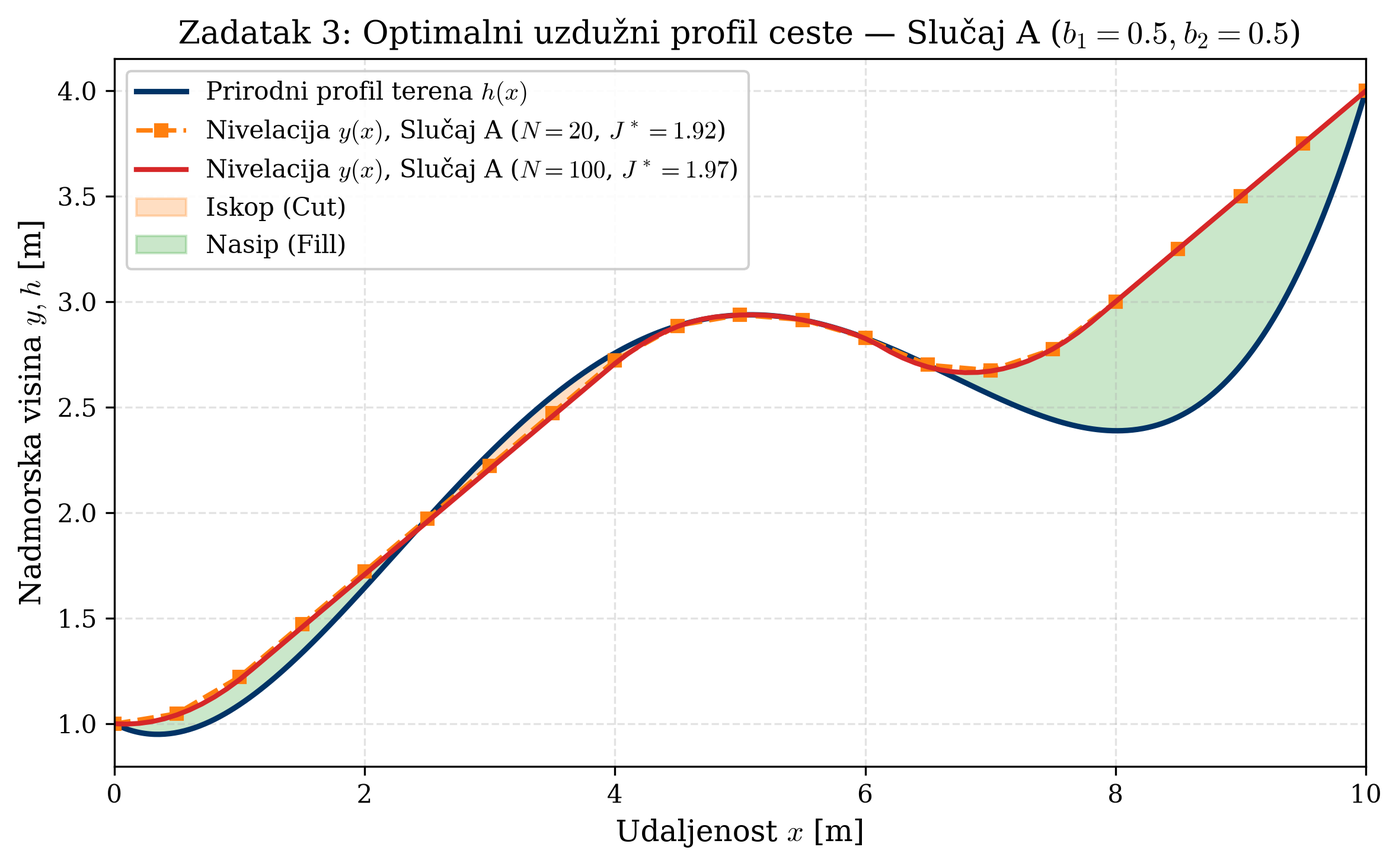
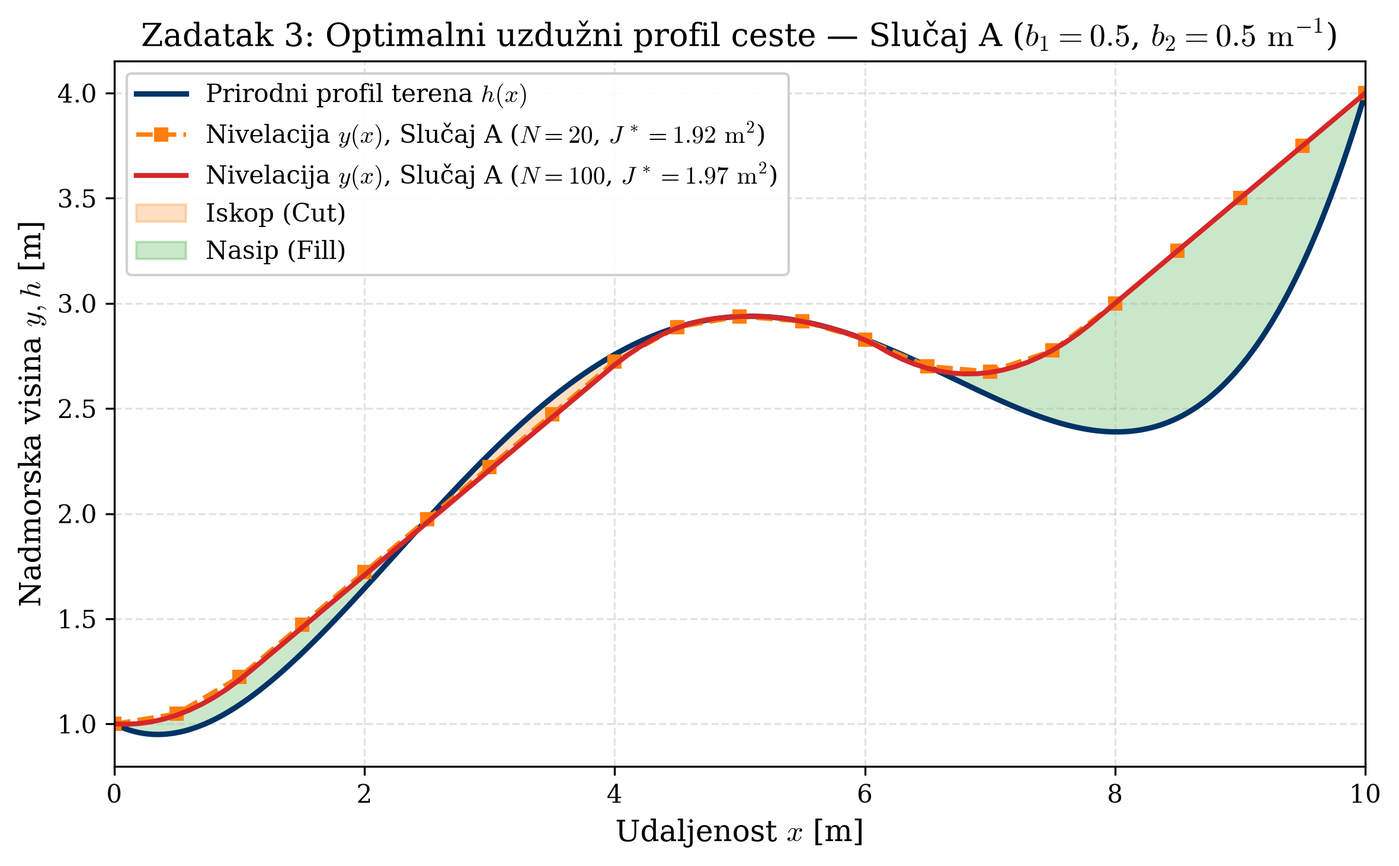
fix(task3): 🤖 [AI] update road leveling discrete objective, unit width explanation, terminology and units

diff --git a/docs/chapters/03-zadatak3-cesta-lp.tex b/docs/chapters/03-zadatak3-cesta-lp.tex
@@ -2,9 +2,9 @@
 
 \subsection{Kontinuirana varijacijska formulacija problema}
 
-U građevinarstvu i prometnom inženjerstvu projektiranje uzdužnog profila prometnice predstavlja temeljni optimizacijski zadatak. Cilj je odrediti visinsku trasu ceste $y(x)$ koja minimizira ukupne zemljane radove (volumen iskopa i nasipa), uz istovremeno strogo zadovoljavanje prometno-tehničkih standarda: maksimalnog uzdužnog nagiba (sposobnost savladavanja uspona vozila) i maksimalne zakrivljenosti trase (udobnost vožnje i ograničenje vertikalnih akceleracija)~\cite{jokic2024predavanja}.
+U građevinarstvu i prometnom inženjerstvu projektiranje uzdužnog profila prometnice predstavlja temeljni optimizacijski zadatak. Cilj je odrediti visinsku trasu ceste $y(x)$ koja minimizira ukupne zemljane radove (volumen iskopa i nasipa), uz istovremeno zadovoljavanje prometno-tehničkih standarda: maksimalnog uzdužnog nagiba i maksimalne zakrivljenosti trase (udobnost vožnje i ograničenje vertikalnih akceleracija)~\cite{jokic2024predavanja}.
 
-Neka je $L$ horizontalna duljina dionice ceste ($x \in [0, L]$), a $h(x)$ poznata prirodna visina terena. Problem se kontinuirano formulira kao varijacijski optimizacijski problem:
+Neka je $L$ horizontalna duljina dionice ceste ($x \in [0, L]$), a $h(x)$ poznata prirodna visina terena. Uz pretpostavku jedinične širine poprečnog presjeka ceste ($w = 1\text{ m}$), ukupni volumen zemljanih radova $[\text{m}^3]$ izravno odgovara površini uzdužnog presjeka $[\text{m}^2]$ između nivelete ceste $y(x)$ i prirodnog terena $h(x)$. Problem se kontinuirano formulira kao varijacijski optimizacijski problem:
 \begin{equation}
 \min_{y(x)} \quad J[y] = \int_0^L |y(x) - h(x)| \, dx
 \label{eq:road_continuous}
@@ -25,8 +25,8 @@ a = h(0) = 1 \text{ m}, \quad b = h(L) = 4 \text{ m}.
 \end{equation}
 Razmatraju se dva skupa parametara:
 \begin{itemize}
-    \item \textbf{Slučaj A}: $b_1 = 0.5$ (maksimalni nagib), $b_2 = 0.5 \text{ m}^{-1}$ (maksimalna zakrivljenost).
-    \item \textbf{Slučaj B}: $b_1 = 0.5$ (maksimalni nagib), $b_2 = 0.2 \text{ m}^{-1}$ (stroži uvjet udobnosti vožnje).
+    \item \textbf{Slučaj A}: $b_1 = 0.5$ (maksimalni nagib $[\text{m/m}]$), $b_2 = 0.5 \text{ m}^{-1}$ (maksimalna zakrivljenost).
+    \item \textbf{Slučaj B}: $b_1 = 0.5$ (maksimalni nagib $[\text{m/m}]$), $b_2 = 0.2 \text{ m}^{-1}$ (stroži uvjet zakrivljenosti / udobnosti vožnje).
 \end{itemize}
 
 \subsection{Diskretizacija konačnim razlikama}
@@ -46,7 +46,7 @@ Prema uputama zadatka, nagib ceste u čvorovima aproksimira se prvom unazadnom p
 y'(x_i) \approx \nabla y_i = \frac{y_i - y_{i-1}}{\Delta x}, \quad i = 1, \dots, N.
 \label{eq:diff_first}
 \end{equation}
-Brzina promjene nagiba (zakrivljenost) aproksimira se drugom podijeljenom razlikom:
+Brzina promjene nagiba (druga podijeljena razlika / aproksimacija vertikalne zakrivljenosti za male nagibe, $y''$) aproksimira se drugom podijeljenom razlikom:
 \begin{equation}
 y''(x_i) \approx \nabla^2 y_i = \frac{\nabla y_i - \nabla y_{i-1}}{\Delta x} = \frac{y_i - 2y_{i-1} + y_{i-2}}{\Delta x^2}, \quad i = 2, \dots, N.
 \label{eq:diff_second}
@@ -80,9 +80,12 @@ D_2 = \frac{1}{\Delta x^2} \begin{bmatrix}
 
 Diskretizirani integralni kriterij glasi:
 \begin{equation}
-J_{\mathrm{disc}}[y] = \Delta x \sum_{i=0}^N |y_i - h_i|.
+J_{\mathrm{disc}}[y] = \Delta x \sum_{i=0}^N |y_i - h_i|,
+\label{eq:road_disc_obj}
 \end{equation}
-Zbog prisutnosti nelinearnog operatora apsolutne vrijednosti ($|y_i - h_i|$), problem se ne može direktno rješavati linearnim metodama. Međutim, primjenom metode epigrafskih pomoćnih varijabli (engl. \textit{slack variables}) $z_i \geq |y_i - h_i|$, problem se egzaktno prevodi u standardni linearni program (LP)~\cite{boyd2004convex,nocedal2006numerical}.
+pri čemu $\Delta x$ predstavlja korak pravokutne numeričke integracije (Riemannova suma) površine uzdužnog presjeka.
+
+Zbog prisutnosti nelinearnog operatora apsolutne vrijednosti ($|y_i - h_i|$), problem se prevodi u linearni program primjenom metode epigrafskih pomoćnih varijabli $z_i \geq |y_i - h_i|$~\cite{boyd2004convex,nocedal2006numerical}.
 
 Za svaki čvor $i = 0, \dots, N$ nejednakost $z_i \geq |y_i - h_i|$ ekvivalentna je paru linearnih nejednakosti:
 \begin{align}
@@ -134,12 +137,12 @@ Donja granica za varijable je $z_i \geq 0$, dok su varijable $y_i$ slobodne ($-\
 
 \subsection{Numerički rezultati za četiri ispitna slučaja}
 
-Problem je riješen primjenom optimizacijskog algoritma dupleksnog simpleksa (\texttt{linprog} s opcijom \texttt{dual-simplex} i \texttt{highs}) za četiri zahtijevana scenarija:
+Problem je riješen primjenom optimizacijskog algoritma dualnog simpleksa (\texttt{linprog} s opcijom \texttt{dual-simplex} i \texttt{highs}) za četiri zahtijevana scenarija:
 \begin{enumerate}
-    \item \textbf{Slučaj A, $N=20$}: $b_1 = 0.5, b_2 = 0.5, \Delta x = 0.5 \text{ m}$ ($42$ varijable, $120$ nejednakosti).
-    \item \textbf{Slučaj A, $N=100$}: $b_1 = 0.5, b_2 = 0.5, \Delta x = 0.1 \text{ m}$ ($202$ varijable, $600$ nejednakosti).
-    \item \textbf{Slučaj B, $N=20$}: $b_1 = 0.5, b_2 = 0.2, \Delta x = 0.5 \text{ m}$ ($42$ varijable, $120$ nejednakosti).
-    \item \textbf{Slučaj B, $N=100$}: $b_1 = 0.5, b_2 = 0.2, \Delta x = 0.1 \text{ m}$ ($202$ varijable, $600$ nejednakosti).
+    \item \textbf{Slučaj A, $N=20$}: $b_1 = 0.5$, $b_2 = 0.5 \text{ m}^{-1}$, $\Delta x = 0.5 \text{ m}$ ($42$ varijable, $120$ nejednakosti).
+    \item \textbf{Slučaj A, $N=100$}: $b_1 = 0.5$, $b_2 = 0.5 \text{ m}^{-1}$, $\Delta x = 0.1 \text{ m}$ ($202$ varijable, $600$ nejednakosti).
+    \item \textbf{Slučaj B, $N=20$}: $b_1 = 0.5$, $b_2 = 0.2 \text{ m}^{-1}$, $\Delta x = 0.5 \text{ m}$ ($42$ varijable, $120$ nejednakosti).
+    \item \textbf{Slučaj B, $N=100$}: $b_1 = 0.5$, $b_2 = 0.2 \text{ m}^{-1}$, $\Delta x = 0.1 \text{ m}$ ($202$ varijable, $600$ nejednakosti).
 \end{enumerate}
 
 Sintetički prikaz optimalnih rezultata dan je u tablici~\ref{tab:road_results}.
@@ -176,14 +179,14 @@ B & 100 & 0.1 & 2.506047 & 0.2645 & 2.2416 & 0.2000 \\
 
 \subsection{Analiza utjecaja gustoće diskretizacije i parametara ograničenja}
 
-Usporedba grafova na slikama~\ref{fig:road_case_a} i~\ref{fig:road_case_b} te provjere derivacija na slikama~\ref{fig:road_slope} i~\ref{fig:road_curv} otkrivaju ključne fizikalne i numeričke zakonitosti:
+Usporedba grafova na slikama~\ref{fig:road_case_a} i~\ref{fig:road_case_b} te provjere derivacija na slikama~\ref{fig:road_slope} i~\ref{fig:road_curv} pokazuju sljedeće zakonitosti:
 
 \begin{enumerate}
     \item \textbf{Utjecaj gustoće diskretizacije ($N = 20$ vs $N = 100$)}:
-    Povećanjem broja diskretizacijskih točaka s $N=20$ na $N=100$, diskretni integral $J_{\mathrm{disc}}$ asimptotski konvergira prema točnom kontinuiranom integralu $\int_0^L |y(x)-h(x)|dx$. Za Slučaj A vrijednost raste s $1.9162$ na $1.9659 \text{ m}^2$ ($+2.59\%$), dok za Slučaj B raste s $2.4537$ na $2.5060 \text{ m}^2$ ($+2.13\%$). Fina mreža omogućuje vjernije praćenje lokalnih promjena bez numeričkog "peglanja" na gruboj skali.
+    Povećanjem broja diskretizacijskih točaka s $N=20$ na $N=100$, diskretni integral $J_{\mathrm{disc}}$ asimptotski konvergira prema kontinuiranom integralu $\int_0^L |y(x)-h(x)|dx$. Za Slučaj A vrijednost raste s $1.9162$ na $1.9659 \text{ m}^2$ ($+2.59\%$), dok za Slučaj B raste s $2.4537$ na $2.5060 \text{ m}^2$ ($+2.13\%$). Fina mreža omogućuje vjernije praćenje promjena profila bez numeričkog izglađivanja.
     
     \item \textbf{Utjecaj ograničenja zakrivljenosti ($b_2 = 0.5$ vs $b_2 = 0.2$)}:
-    Smanjenje dozvoljene zakrivljenosti s $b_2 = 0.5$ (Slučaj A) na $b_2 = 0.2$ (Slučaj B) zahtijeva znatno glađu trasu ceste kako bi se osigurala udobnost vožnje pri višim brzinama. Posljedično, cesta ne može pratiti prirodne pregibe terena, što povećava ukupni volumen zemljanih radova s $1.9659 \text{ m}^2$ na $2.5060 \text{ m}^2$ ($+27.47\%$).
+    Smanjenje dozvoljene zakrivljenosti s $b_2 = 0.5 \text{ m}^{-1}$ (Slučaj A) na $b_2 = 0.2 \text{ m}^{-1}$ (Slučaj B) zahtijeva znatno glađu trasu ceste. Posljedično, niveleta ne može pratiti prirodne pregibe terena, što povećava ukupni volumen zemljanih radova s $1.9659 \text{ m}^2$ na $2.5060 \text{ m}^2$ ($+27.47\%$).
 \end{enumerate}
 
 \begin{figure}[H]
@@ -200,4 +203,4 @@ Usporedba grafova na slikama~\ref{fig:road_case_a} i~\ref{fig:road_case_b} te pr
     \label{fig:road_curv}
 \end{figure}
 
-Kao što je vidljivo na slici~\ref{fig:road_curv}, zakrivljenost $y''(x)$ u Slučaju B doseže točno ekstremne vrijednosti $\pm 0.2 \text{ m}^{-1}$, potvrđujući da su ograničenja drugog reda aktivna duž značajnih segmenata trase.
+Na slici~\ref{fig:road_curv}, numerička aproksimacija druge derivacije $y''(x)$ u Slučaju B doseže točno ekstremne vrijednosti $\pm 0.2 \text{ m}^{-1}$, potvrđujući da su ograničenja drugog reda aktivna duž značajnih segmenata trase.

diff --git a/for_validator/03_LATEX_SOURCE/chapters/03-zadatak3-cesta-lp.tex b/for_validator/03_LATEX_SOURCE/chapters/03-zadatak3-cesta-lp.tex
@@ -2,9 +2,9 @@
 
 \subsection{Kontinuirana varijacijska formulacija problema}
 
-U građevinarstvu i prometnom inženjerstvu projektiranje uzdužnog profila prometnice predstavlja temeljni optimizacijski zadatak. Cilj je odrediti visinsku trasu ceste $y(x)$ koja minimizira ukupne zemljane radove (volumen iskopa i nasipa), uz istovremeno strogo zadovoljavanje prometno-tehničkih standarda: maksimalnog uzdužnog nagiba (sposobnost savladavanja uspona vozila) i maksimalne zakrivljenosti trase (udobnost vožnje i ograničenje vertikalnih akceleracija)~\cite{jokic2024predavanja}.
+U građevinarstvu i prometnom inženjerstvu projektiranje uzdužnog profila prometnice predstavlja temeljni optimizacijski zadatak. Cilj je odrediti visinsku trasu ceste $y(x)$ koja minimizira ukupne zemljane radove (volumen iskopa i nasipa), uz istovremeno zadovoljavanje prometno-tehničkih standarda: maksimalnog uzdužnog nagiba i maksimalne zakrivljenosti trase (udobnost vožnje i ograničenje vertikalnih akceleracija)~\cite{jokic2024predavanja}.
 
-Neka je $L$ horizontalna duljina dionice ceste ($x \in [0, L]$), a $h(x)$ poznata prirodna visina terena. Problem se kontinuirano formulira kao varijacijski optimizacijski problem:
+Neka je $L$ horizontalna duljina dionice ceste ($x \in [0, L]$), a $h(x)$ poznata prirodna visina terena. Uz pretpostavku jedinične širine poprečnog presjeka ceste ($w = 1\text{ m}$), ukupni volumen zemljanih radova $[\text{m}^3]$ izravno odgovara površini uzdužnog presjeka $[\text{m}^2]$ između nivelete ceste $y(x)$ i prirodnog terena $h(x)$. Problem se kontinuirano formulira kao varijacijski optimizacijski problem:
 \begin{equation}
 \min_{y(x)} \quad J[y] = \int_0^L |y(x) - h(x)| \, dx
 \label{eq:road_continuous}
@@ -25,8 +25,8 @@ a = h(0) = 1 \text{ m}, \quad b = h(L) = 4 \text{ m}.
 \end{equation}
 Razmatraju se dva skupa parametara:
 \begin{itemize}
-    \item \textbf{Slučaj A}: $b_1 = 0.5$ (maksimalni nagib), $b_2 = 0.5 \text{ m}^{-1}$ (maksimalna zakrivljenost).
-    \item \textbf{Slučaj B}: $b_1 = 0.5$ (maksimalni nagib), $b_2 = 0.2 \text{ m}^{-1}$ (stroži uvjet udobnosti vožnje).
+    \item \textbf{Slučaj A}: $b_1 = 0.5$ (maksimalni nagib $[\text{m/m}]$), $b_2 = 0.5 \text{ m}^{-1}$ (maksimalna zakrivljenost).
+    \item \textbf{Slučaj B}: $b_1 = 0.5$ (maksimalni nagib $[\text{m/m}]$), $b_2 = 0.2 \text{ m}^{-1}$ (stroži uvjet zakrivljenosti / udobnosti vožnje).
 \end{itemize}
 
 \subsection{Diskretizacija konačnim razlikama}
@@ -46,7 +46,7 @@ Prema uputama zadatka, nagib ceste u čvorovima aproksimira se prvom unazadnom p
 y'(x_i) \approx \nabla y_i = \frac{y_i - y_{i-1}}{\Delta x}, \quad i = 1, \dots, N.
 \label{eq:diff_first}
 \end{equation}
-Brzina promjene nagiba (zakrivljenost) aproksimira se drugom podijeljenom razlikom:
+Brzina promjene nagiba (druga podijeljena razlika / aproksimacija vertikalne zakrivljenosti za male nagibe, $y''$) aproksimira se drugom podijeljenom razlikom:
 \begin{equation}
 y''(x_i) \approx \nabla^2 y_i = \frac{\nabla y_i - \nabla y_{i-1}}{\Delta x} = \frac{y_i - 2y_{i-1} + y_{i-2}}{\Delta x^2}, \quad i = 2, \dots, N.
 \label{eq:diff_second}
@@ -80,9 +80,12 @@ D_2 = \frac{1}{\Delta x^2} \begin{bmatrix}
 
 Diskretizirani integralni kriterij glasi:
 \begin{equation}
-J_{\mathrm{disc}}[y] = \Delta x \sum_{i=0}^N |y_i - h_i|.
+J_{\mathrm{disc}}[y] = \Delta x \sum_{i=0}^N |y_i - h_i|,
+\label{eq:road_disc_obj}
 \end{equation}
-Zbog prisutnosti nelinearnog operatora apsolutne vrijednosti ($|y_i - h_i|$), problem se ne može direktno rješavati linearnim metodama. Međutim, primjenom metode epigrafskih pomoćnih varijabli (engl. \textit{slack variables}) $z_i \geq |y_i - h_i|$, problem se egzaktno prevodi u standardni linearni program (LP)~\cite{boyd2004convex,nocedal2006numerical}.
+pri čemu $\Delta x$ predstavlja korak pravokutne numeričke integracije (Riemannova suma) površine uzdužnog presjeka.
+
+Zbog prisutnosti nelinearnog operatora apsolutne vrijednosti ($|y_i - h_i|$), problem se prevodi u linearni program primjenom metode epigrafskih pomoćnih varijabli $z_i \geq |y_i - h_i|$~\cite{boyd2004convex,nocedal2006numerical}.
 
 Za svaki čvor $i = 0, \dots, N$ nejednakost $z_i \geq |y_i - h_i|$ ekvivalentna je paru linearnih nejednakosti:
 \begin{align}
@@ -134,12 +137,12 @@ Donja granica za varijable je $z_i \geq 0$, dok su varijable $y_i$ slobodne ($-\
 
 \subsection{Numerički rezultati za četiri ispitna slučaja}
 
-Problem je riješen primjenom optimizacijskog algoritma dupleksnog simpleksa (\texttt{linprog} s opcijom \texttt{dual-simplex} i \texttt{highs}) za četiri zahtijevana scenarija:
+Problem je riješen primjenom optimizacijskog algoritma dualnog simpleksa (\texttt{linprog} s opcijom \texttt{dual-simplex} i \texttt{highs}) za četiri zahtijevana scenarija:
 \begin{enumerate}
-    \item \textbf{Slučaj A, $N=20$}: $b_1 = 0.5, b_2 = 0.5, \Delta x = 0.5 \text{ m}$ ($42$ varijable, $120$ nejednakosti).
-    \item \textbf{Slučaj A, $N=100$}: $b_1 = 0.5, b_2 = 0.5, \Delta x = 0.1 \text{ m}$ ($202$ varijable, $600$ nejednakosti).
-    \item \textbf{Slučaj B, $N=20$}: $b_1 = 0.5, b_2 = 0.2, \Delta x = 0.5 \text{ m}$ ($42$ varijable, $120$ nejednakosti).
-    \item \textbf{Slučaj B, $N=100$}: $b_1 = 0.5, b_2 = 0.2, \Delta x = 0.1 \text{ m}$ ($202$ varijable, $600$ nejednakosti).
+    \item \textbf{Slučaj A, $N=20$}: $b_1 = 0.5$, $b_2 = 0.5 \text{ m}^{-1}$, $\Delta x = 0.5 \text{ m}$ ($42$ varijable, $120$ nejednakosti).
+    \item \textbf{Slučaj A, $N=100$}: $b_1 = 0.5$, $b_2 = 0.5 \text{ m}^{-1}$, $\Delta x = 0.1 \text{ m}$ ($202$ varijable, $600$ nejednakosti).
+    \item \textbf{Slučaj B, $N=20$}: $b_1 = 0.5$, $b_2 = 0.2 \text{ m}^{-1}$, $\Delta x = 0.5 \text{ m}$ ($42$ varijable, $120$ nejednakosti).
+    \item \textbf{Slučaj B, $N=100$}: $b_1 = 0.5$, $b_2 = 0.2 \text{ m}^{-1}$, $\Delta x = 0.1 \text{ m}$ ($202$ varijable, $600$ nejednakosti).
 \end{enumerate}
 
 Sintetički prikaz optimalnih rezultata dan je u tablici~\ref{tab:road_results}.
@@ -176,14 +179,14 @@ B & 100 & 0.1 & 2.506047 & 0.2645 & 2.2416 & 0.2000 \\
 
 \subsection{Analiza utjecaja gustoće diskretizacije i parametara ograničenja}
 
-Usporedba grafova na slikama~\ref{fig:road_case_a} i~\ref{fig:road_case_b} te provjere derivacija na slikama~\ref{fig:road_slope} i~\ref{fig:road_curv} otkrivaju ključne fizikalne i numeričke zakonitosti:
+Usporedba grafova na slikama~\ref{fig:road_case_a} i~\ref{fig:road_case_b} te provjere derivacija na slikama~\ref{fig:road_slope} i~\ref{fig:road_curv} pokazuju sljedeće zakonitosti:
 
 \begin{enumerate}
     \item \textbf{Utjecaj gustoće diskretizacije ($N = 20$ vs $N = 100$)}:
-    Povećanjem broja diskretizacijskih točaka s $N=20$ na $N=100$, diskretni integral $J_{\mathrm{disc}}$ asimptotski konvergira prema točnom kontinuiranom integralu $\int_0^L |y(x)-h(x)|dx$. Za Slučaj A vrijednost raste s $1.9162$ na $1.9659 \text{ m}^2$ ($+2.59\%$), dok za Slučaj B raste s $2.4537$ na $2.5060 \text{ m}^2$ ($+2.13\%$). Fina mreža omogućuje vjernije praćenje lokalnih promjena bez numeričkog "peglanja" na gruboj skali.
+    Povećanjem broja diskretizacijskih točaka s $N=20$ na $N=100$, diskretni integral $J_{\mathrm{disc}}$ asimptotski konvergira prema kontinuiranom integralu $\int_0^L |y(x)-h(x)|dx$. Za Slučaj A vrijednost raste s $1.9162$ na $1.9659 \text{ m}^2$ ($+2.59\%$), dok za Slučaj B raste s $2.4537$ na $2.5060 \text{ m}^2$ ($+2.13\%$). Fina mreža omogućuje vjernije praćenje promjena profila bez numeričkog izglađivanja.
     
     \item \textbf{Utjecaj ograničenja zakrivljenosti ($b_2 = 0.5$ vs $b_2 = 0.2$)}:
-    Smanjenje dozvoljene zakrivljenosti s $b_2 = 0.5$ (Slučaj A) na $b_2 = 0.2$ (Slučaj B) zahtijeva znatno glađu trasu ceste kako bi se osigurala udobnost vožnje pri višim brzinama. Posljedično, cesta ne može pratiti prirodne pregibe terena, što povećava ukupni volumen zemljanih radova s $1.9659 \text{ m}^2$ na $2.5060 \text{ m}^2$ ($+27.47\%$).
+    Smanjenje dozvoljene zakrivljenosti s $b_2 = 0.5 \text{ m}^{-1}$ (Slučaj A) na $b_2 = 0.2 \text{ m}^{-1}$ (Slučaj B) zahtijeva znatno glađu trasu ceste. Posljedično, niveleta ne može pratiti prirodne pregibe terena, što povećava ukupni volumen zemljanih radova s $1.9659 \text{ m}^2$ na $2.5060 \text{ m}^2$ ($+27.47\%$).
 \end{enumerate}
 
 \begin{figure}[H]
@@ -200,4 +203,4 @@ Usporedba grafova na slikama~\ref{fig:road_case_a} i~\ref{fig:road_case_b} te pr
     \label{fig:road_curv}
 \end{figure}
 
-Kao što je vidljivo na slici~\ref{fig:road_curv}, zakrivljenost $y''(x)$ u Slučaju B doseže točno ekstremne vrijednosti $\pm 0.2 \text{ m}^{-1}$, potvrđujući da su ograničenja drugog reda aktivna duž značajnih segmenata trase.
+Na slici~\ref{fig:road_curv}, numerička aproksimacija druge derivacije $y''(x)$ u Slučaju B doseže točno ekstremne vrijednosti $\pm 0.2 \text{ m}^{-1}$, potvrđujući da su ograničenja drugog reda aktivna duž značajnih segmenata trase.

diff --git a/for_validator/04_SOURCE_CODE/python/task3_road_leveling.py b/for_validator/04_SOURCE_CODE/python/task3_road_leveling.py
@@ -173,9 +173,9 @@ ax.plot(x_dense, h_dense, color=COLORS['dark_blue'], linewidth=2.2, label=r'Prir
 res_a20 = results['A_N20']
 res_a100 = results['A_N100']
 ax.plot(res_a20['x'], res_a20['y'], 's--', color=COLORS['amber_orange'], markersize=5,
-        label=rf'Nivelacija $y(x)$, Slučaj A ($N=20$, $J^* = {res_a20["cost"]:.2f}$)')
+        label=rf'Nivelacija $y(x)$, Slučaj A ($N=20$, $J^* = {res_a20["cost"]:.2f}\ \mathrm{{m}}^2$)')
 ax.plot(res_a100['x'], res_a100['y'], '-', color=COLORS['accent_red'], linewidth=2.0,
-        label=rf'Nivelacija $y(x)$, Slučaj A ($N=100$, $J^* = {res_a100["cost"]:.2f}$)')
+        label=rf'Nivelacija $y(x)$, Slučaj A ($N=100$, $J^* = {res_a100["cost"]:.2f}\ \mathrm{{m}}^2$)')
 
 # Fill cut and fill area for N=100
 ax.fill_between(res_a100['x'], res_a100['h'], res_a100['y'],
@@ -188,7 +188,7 @@ ax.fill_between(res_a100['x'], res_a100['h'], res_a100['y'],
 ax.set_xlim([0, 10])
 ax.set_xlabel(r'Udaljenost $x$ [m]')
 ax.set_ylabel(r'Nadmorska visina $y, h$ [m]')
-ax.set_title(r'Zadatak 3: Optimalni uzdužni profil ceste — Slučaj A ($b_1 = 0.5, b_2 = 0.5$)')
+ax.set_title(r'Zadatak 3: Optimalni uzdužni profil ceste — Slučaj A ($b_1 = 0.5$, $b_2 = 0.5\ \mathrm{m}^{-1}$)')
 ax.legend(loc='upper left', framealpha=0.92)
 save_figure(fig, 'fig3_1_road_case_A')
 plt.close(fig)
@@ -200,9 +200,9 @@ ax.plot(x_dense, h_dense, color=COLORS['dark_blue'], linewidth=2.2, label=r'Prir
 res_b20 = results['B_N20']
 res_b100 = results['B_N100']
 ax.plot(res_b20['x'], res_b20['y'], 'd--', color=COLORS['purple'], markersize=5,
-        label=rf'Nivelacija $y(x)$, Slučaj B ($N=20$, $J^* = {res_b20["cost"]:.2f}$)')
+        label=rf'Nivelacija $y(x)$, Slučaj B ($N=20$, $J^* = {res_b20["cost"]:.2f}\ \mathrm{{m}}^2$)')
 ax.plot(res_b100['x'], res_b100['y'], '-', color=COLORS['accent_red'], linewidth=2.0,
-        label=rf'Nivelacija $y(x)$, Slučaj B ($N=100$, $J^* = {res_b100["cost"]:.2f}$)')
+        label=rf'Nivelacija $y(x)$, Slučaj B ($N=100$, $J^* = {res_b100["cost"]:.2f}\ \mathrm{{m}}^2$)')
 
 ax.fill_between(res_b100['x'], res_b100['h'], res_b100['y'],
                 where=(res_b100['y'] < res_b100['h']),
@@ -214,7 +214,7 @@ ax.fill_between(res_b100['x'], res_b100['h'], res_b100['y'],
 ax.set_xlim([0, 10])
 ax.set_xlabel(r'Udaljenost $x$ [m]')
 ax.set_ylabel(r'Nadmorska visina $y, h$ [m]')
-ax.set_title(r'Zadatak 3: Optimalni uzdužni profil ceste — Slučaj B ($b_1 = 0.5, b_2 = 0.2$)')
+ax.set_title(r'Zadatak 3: Optimalni uzdužni profil ceste — Slučaj B ($b_1 = 0.5$, $b_2 = 0.2\ \mathrm{m}^{-1}$)')
 ax.legend(loc='upper left', framealpha=0.92)
 save_figure(fig, 'fig3_2_road_case_B')
 plt.close(fig)
@@ -223,13 +223,13 @@ plt.close(fig)
 fig, ax = plt.subplots(figsize=(8, 4.5))
 ax.plot(res_a100['x_slopes'], res_a100['slopes'], color=COLORS['primary_blue'], linewidth=1.8, label=r'Nagib $y^\prime(x)$ (Slučaj A, $N=100$)')
 ax.plot(res_b100['x_slopes'], res_b100['slopes'], color=COLORS['accent_red'], linewidth=1.8, label=r'Nagib $y^\prime(x)$ (Slučaj B, $N=100$)')
-ax.axhline(0.5, color='black', linestyle='--', linewidth=1.5, label=r'Maksimalni dozvoljeni nagib $\pm b_1 = \pm 0.5$')
+ax.axhline(0.5, color='black', linestyle='--', linewidth=1.5, label=r'Maksimalni dozvoljeni nagib $\pm b_1 = \pm 0.5$ [-]')
 ax.axhline(-0.5, color='black', linestyle='--', linewidth=1.5)
 
 ax.set_xlim([0, 10])
 ax.set_ylim([-0.65, 0.65])
 ax.set_xlabel(r'Udaljenost $x$ [m]')
-ax.set_ylabel(r'Nagib ceste $y^\prime(x)$ [m/m]')
+ax.set_ylabel(r'Nagib ceste $y^\prime(x)$ [-]')
 ax.set_title(r'Zadatak 3: Provjera ograničenja prvog reda (nagib ceste)')
 ax.legend(loc='lower left', framealpha=0.92)
 save_figure(fig, 'fig3_3_road_slope_profile')
@@ -237,17 +237,17 @@ plt.close(fig)
 
 # Figure 3.4: Curvature Profile |y''(x)| vs Limit b2
 fig, ax = plt.subplots(figsize=(8, 4.5))
-ax.plot(res_a100['x_curv'], res_a100['curvatures'], color=COLORS['primary_blue'], linewidth=1.6, label=r'Zakrivljenost $y^{\prime\prime}(x)$ (Slučaj A)')
-ax.plot(res_b100['x_curv'], res_b100['curvatures'], color=COLORS['accent_red'], linewidth=1.6, label=r'Zakrivljenost $y^{\prime\prime}(x)$ (Slučaj B)')
-ax.axhline(0.5, color=COLORS['primary_blue'], linestyle=':', linewidth=1.4, label=r'Granica $b_2 = 0.5$ (Slučaj A)')
+ax.plot(res_a100['x_curv'], res_a100['curvatures'], color=COLORS['primary_blue'], linewidth=1.6, label=r'Druga derivacija $y^{\prime\prime}(x)$ (Slučaj A)')
+ax.plot(res_b100['x_curv'], res_b100['curvatures'], color=COLORS['accent_red'], linewidth=1.6, label=r'Druga derivacija $y^{\prime\prime}(x)$ (Slučaj B)')
+ax.axhline(0.5, color=COLORS['primary_blue'], linestyle=':', linewidth=1.4, label=r'Granica $b_2 = 0.5\ \mathrm{m}^{-1}$ (Slučaj A)')
 ax.axhline(-0.5, color=COLORS['primary_blue'], linestyle=':', linewidth=1.4)
-ax.axhline(0.2, color=COLORS['accent_red'], linestyle='--', linewidth=1.4, label=r'Granica $b_2 = 0.2$ (Slučaj B)')
+ax.axhline(0.2, color=COLORS['accent_red'], linestyle='--', linewidth=1.4, label=r'Granica $b_2 = 0.2\ \mathrm{m}^{-1}$ (Slučaj B)')
 ax.axhline(-0.2, color=COLORS['accent_red'], linestyle='--', linewidth=1.4)
 
 ax.set_xlim([0, 10])
 ax.set_ylim([-0.6, 0.6])
 ax.set_xlabel(r'Udaljenost $x$ [m]')
-ax.set_ylabel(r'Zakrivljenost ceste $y^{\prime\prime}(x)$ [1/m]')
+ax.set_ylabel(r'Aproksimacija zakrivljenosti $y^{\prime\prime}(x)$ [$\mathrm{m}^{-1}$]')
 ax.set_title(r'Zadatak 3: Provjera ograničenja drugog reda (zakrivljenost / udobnost vožnje)')
 ax.legend(loc='lower left', framealpha=0.92)
 save_figure(fig, 'fig3_4_road_curvature_profile')

diff --git a/src/task3_road_leveling.py b/src/task3_road_leveling.py
@@ -173,9 +173,9 @@ ax.plot(x_dense, h_dense, color=COLORS['dark_blue'], linewidth=2.2, label=r'Prir
 res_a20 = results['A_N20']
 res_a100 = results['A_N100']
 ax.plot(res_a20['x'], res_a20['y'], 's--', color=COLORS['amber_orange'], markersize=5,
-        label=rf'Nivelacija $y(x)$, Slučaj A ($N=20$, $J^* = {res_a20["cost"]:.2f}$)')
+        label=rf'Nivelacija $y(x)$, Slučaj A ($N=20$, $J^* = {res_a20["cost"]:.2f}\ \mathrm{{m}}^2$)')
 ax.plot(res_a100['x'], res_a100['y'], '-', color=COLORS['accent_red'], linewidth=2.0,
-        label=rf'Nivelacija $y(x)$, Slučaj A ($N=100$, $J^* = {res_a100["cost"]:.2f}$)')
+        label=rf'Nivelacija $y(x)$, Slučaj A ($N=100$, $J^* = {res_a100["cost"]:.2f}\ \mathrm{{m}}^2$)')
 
 # Fill cut and fill area for N=100
 ax.fill_between(res_a100['x'], res_a100['h'], res_a100['y'],
@@ -188,7 +188,7 @@ ax.fill_between(res_a100['x'], res_a100['h'], res_a100['y'],
 ax.set_xlim([0, 10])
 ax.set_xlabel(r'Udaljenost $x$ [m]')
 ax.set_ylabel(r'Nadmorska visina $y, h$ [m]')
-ax.set_title(r'Zadatak 3: Optimalni uzdužni profil ceste — Slučaj A ($b_1 = 0.5, b_2 = 0.5$)')
+ax.set_title(r'Zadatak 3: Optimalni uzdužni profil ceste — Slučaj A ($b_1 = 0.5$, $b_2 = 0.5\ \mathrm{m}^{-1}$)')
 ax.legend(loc='upper left', framealpha=0.92)
 save_figure(fig, 'fig3_1_road_case_A')
 plt.close(fig)
@@ -200,9 +200,9 @@ ax.plot(x_dense, h_dense, color=COLORS['dark_blue'], linewidth=2.2, label=r'Prir
 res_b20 = results['B_N20']
 res_b100 = results['B_N100']
 ax.plot(res_b20['x'], res_b20['y'], 'd--', color=COLORS['purple'], markersize=5,
-        label=rf'Nivelacija $y(x)$, Slučaj B ($N=20$, $J^* = {res_b20["cost"]:.2f}$)')
+        label=rf'Nivelacija $y(x)$, Slučaj B ($N=20$, $J^* = {res_b20["cost"]:.2f}\ \mathrm{{m}}^2$)')
 ax.plot(res_b100['x'], res_b100['y'], '-', color=COLORS['accent_red'], linewidth=2.0,
-        label=rf'Nivelacija $y(x)$, Slučaj B ($N=100$, $J^* = {res_b100["cost"]:.2f}$)')
+        label=rf'Nivelacija $y(x)$, Slučaj B ($N=100$, $J^* = {res_b100["cost"]:.2f}\ \mathrm{{m}}^2$)')
 
 ax.fill_between(res_b100['x'], res_b100['h'], res_b100['y'],
                 where=(res_b100['y'] < res_b100['h']),
@@ -214,7 +214,7 @@ ax.fill_between(res_b100['x'], res_b100['h'], res_b100['y'],
 ax.set_xlim([0, 10])
 ax.set_xlabel(r'Udaljenost $x$ [m]')
 ax.set_ylabel(r'Nadmorska visina $y, h$ [m]')
-ax.set_title(r'Zadatak 3: Optimalni uzdužni profil ceste — Slučaj B ($b_1 = 0.5, b_2 = 0.2$)')
+ax.set_title(r'Zadatak 3: Optimalni uzdužni profil ceste — Slučaj B ($b_1 = 0.5$, $b_2 = 0.2\ \mathrm{m}^{-1}$)')
 ax.legend(loc='upper left', framealpha=0.92)
 save_figure(fig, 'fig3_2_road_case_B')
 plt.close(fig)
@@ -223,13 +223,13 @@ plt.close(fig)
 fig, ax = plt.subplots(figsize=(8, 4.5))
 ax.plot(res_a100['x_slopes'], res_a100['slopes'], color=COLORS['primary_blue'], linewidth=1.8, label=r'Nagib $y^\prime(x)$ (Slučaj A, $N=100$)')
 ax.plot(res_b100['x_slopes'], res_b100['slopes'], color=COLORS['accent_red'], linewidth=1.8, label=r'Nagib $y^\prime(x)$ (Slučaj B, $N=100$)')
-ax.axhline(0.5, color='black', linestyle='--', linewidth=1.5, label=r'Maksimalni dozvoljeni nagib $\pm b_1 = \pm 0.5$')
+ax.axhline(0.5, color='black', linestyle='--', linewidth=1.5, label=r'Maksimalni dozvoljeni nagib $\pm b_1 = \pm 0.5$ [-]')
 ax.axhline(-0.5, color='black', linestyle='--', linewidth=1.5)
 
 ax.set_xlim([0, 10])
 ax.set_ylim([-0.65, 0.65])
 ax.set_xlabel(r'Udaljenost $x$ [m]')
-ax.set_ylabel(r'Nagib ceste $y^\prime(x)$ [m/m]')
+ax.set_ylabel(r'Nagib ceste $y^\prime(x)$ [-]')
 ax.set_title(r'Zadatak 3: Provjera ograničenja prvog reda (nagib ceste)')
 ax.legend(loc='lower left', framealpha=0.92)
 save_figure(fig, 'fig3_3_road_slope_profile')
@@ -237,17 +237,17 @@ plt.close(fig)
 
 # Figure 3.4: Curvature Profile |y''(x)| vs Limit b2
 fig, ax = plt.subplots(figsize=(8, 4.5))
-ax.plot(res_a100['x_curv'], res_a100['curvatures'], color=COLORS['primary_blue'], linewidth=1.6, label=r'Zakrivljenost $y^{\prime\prime}(x)$ (Slučaj A)')
-ax.plot(res_b100['x_curv'], res_b100['curvatures'], color=COLORS['accent_red'], linewidth=1.6, label=r'Zakrivljenost $y^{\prime\prime}(x)$ (Slučaj B)')
-ax.axhline(0.5, color=COLORS['primary_blue'], linestyle=':', linewidth=1.4, label=r'Granica $b_2 = 0.5$ (Slučaj A)')
+ax.plot(res_a100['x_curv'], res_a100['curvatures'], color=COLORS['primary_blue'], linewidth=1.6, label=r'Druga derivacija $y^{\prime\prime}(x)$ (Slučaj A)')
+ax.plot(res_b100['x_curv'], res_b100['curvatures'], color=COLORS['accent_red'], linewidth=1.6, label=r'Druga derivacija $y^{\prime\prime}(x)$ (Slučaj B)')
+ax.axhline(0.5, color=COLORS['primary_blue'], linestyle=':', linewidth=1.4, label=r'Granica $b_2 = 0.5\ \mathrm{m}^{-1}$ (Slučaj A)')
 ax.axhline(-0.5, color=COLORS['primary_blue'], linestyle=':', linewidth=1.4)
-ax.axhline(0.2, color=COLORS['accent_red'], linestyle='--', linewidth=1.4, label=r'Granica $b_2 = 0.2$ (Slučaj B)')
+ax.axhline(0.2, color=COLORS['accent_red'], linestyle='--', linewidth=1.4, label=r'Granica $b_2 = 0.2\ \mathrm{m}^{-1}$ (Slučaj B)')
 ax.axhline(-0.2, color=COLORS['accent_red'], linestyle='--', linewidth=1.4)
 
 ax.set_xlim([0, 10])
 ax.set_ylim([-0.6, 0.6])
 ax.set_xlabel(r'Udaljenost $x$ [m]')
-ax.set_ylabel(r'Zakrivljenost ceste $y^{\prime\prime}(x)$ [1/m]')
+ax.set_ylabel(r'Aproksimacija zakrivljenosti $y^{\prime\prime}(x)$ [$\mathrm{m}^{-1}$]')
 ax.set_title(r'Zadatak 3: Provjera ograničenja drugog reda (zakrivljenost / udobnost vožnje)')
 ax.legend(loc='lower left', framealpha=0.92)
 save_figure(fig, 'fig3_4_road_curvature_profile')
